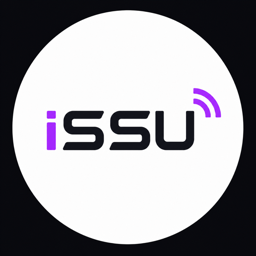
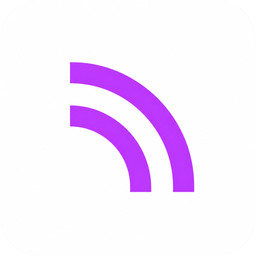
Release ThermoPilot 0.1.2

diff --git a/custom_components/thermopilot/const.py b/custom_components/thermopilot/const.py
@@ -5,7 +5,7 @@ from __future__ import annotations
 from typing import Final
 
 DOMAIN: Final = "thermopilot"
-INTEGRATION_VERSION: Final = "0.1.1"
+INTEGRATION_VERSION: Final = "0.1.2"
 PLATFORMS: Final = ["climate", "sensor"]
 STORAGE_VERSION: Final = 1
 

diff --git a/README.md b/README.md
@@ -1,10 +1,6 @@
 <div align="center">
 
-<picture>
-  <source media="(prefers-color-scheme: dark)" srcset="assets/thermopilot-banner-dark.png">
-  <source media="(prefers-color-scheme: light)" srcset="assets/thermopilot-banner-light.png">
-  <img alt="ThermoPilot — unified climate control for Home Assistant" src="assets/thermopilot-banner-light.png" width="100%">
-</picture>
+<img alt="ThermoPilot — unified climate control for Home Assistant" src="assets/thermopilot-banner-dark.png" width="100%">
 
 [![Status](https://img.shields.io/badge/status-active%20development-F0B429?style=flat-square)](#project-status)
 [![Home Assistant](https://img.shields.io/badge/Home%20Assistant-2026.8%2B-41BDF5?style=flat-square&logo=homeassistant&logoColor=white)](https://www.home-assistant.io/)
@@ -28,14 +24,14 @@ ThermoPilot creates native climate entities from existing sensors and hardware c
 | **Recommended for production** | ❌ Not yet |
 | **Setup difficulty** | 🟢 Beginner |
 | **Documentation** | ✅ Complete for initial testing |
-| **Current version** | `0.1.1` |
+| **Current version** | `0.1.2` |
 | **Minimum Home Assistant** | 2026.8.0 |
 | **Local tests** | 🟡 Initial suite |
 | **Discrete strategy validation** | ❌ Not yet |
 | **Power-feedback strategy validation** | ❌ Not yet |
 
 > [!WARNING]
-> Version 0.1.1 is the first complete implementation. Validate each hardware strategy with the documented rollback procedure before using it in production.
+> Version 0.1.2 is an initial testing release. Validate each hardware strategy with the documented rollback procedure before using it in production.
 
 ---
 
@@ -47,6 +43,10 @@ ThermoPilot was created to replace two independent AppDaemon thermostats with on
 - **Power-feedback toggle** — one stateless command confirmed by measured power, including manual-operation detection and retries.
 
 The integration is configured from the Home Assistant UI. No AppDaemon instance, MQTT broker, YAML production configuration or external Python package is required.
+
+### Home Assistant Integration and Device
+
+ThermoPilot is installed and managed as a HACS custom integration. Each configured thermostat is represented as one Home Assistant device that groups its climate entity, diagnostic sensor and optional power-feedback status sensor. It therefore appears with regular integrations instead of dispersing its configuration among Home Assistant Helpers.
 
 ---
 
@@ -271,7 +271,7 @@ Historical site-specific folders may be deleted from production only after the c
 
 A future optional NUT integration may distinguish an integration restart from a confirmed power outage while Home Assistant remains powered by a UPS. It may persist outage and restoration timestamps and trigger discrete-command reconciliation only after mains power returns.
 
-NUT support is not implemented in version 0.1.1.
+NUT support is not implemented in version 0.1.2.
 
 ---
 
@@ -296,11 +296,7 @@ Released under the [MIT License](LICENSE).
 This project is part of the **iSSU Open Homelab ecosystem**.
 
 <a href="https://github.com/issu-lab/Open-Homelab">
-  <picture>
-    <source media="(prefers-color-scheme: dark)" srcset="assets/thermopilot-footer-light.png">
-    <source media="(prefers-color-scheme: light)" srcset="assets/thermopilot-footer-dark.png">
-    <img alt="Explore iSSU Open Homelab" src="assets/thermopilot-footer-dark.png" width="480">
-  </picture>
+  <img alt="Explore iSSU Open Homelab" src="assets/thermopilot-footer-dark.png" width="360">
 </a>
 
 </div>

diff --git a/CHANGELOG.md b/CHANGELOG.md
@@ -4,6 +4,16 @@ All notable changes to ThermoPilot are documented in this file.
 
 The project follows [Semantic Versioning](https://semver.org/).
 
+## [0.1.2] - 2026-08-15
+
+### Changed
+
+- Classified each ThermoPilot configuration as a Home Assistant device so its entities remain grouped with regular integrations.
+- Replaced the Home Assistant brand icon with the approved two-arc iSSU signal mark.
+- Restored the approved project banner, footer and social-preview artwork without altering their established branding.
+- Replaced theme-dependent README picture blocks with direct images compatible with the HACS renderer.
+- Reduced the displayed footer size.
+
 ## [0.1.1] - 2026-08-15
 
 ### Added
